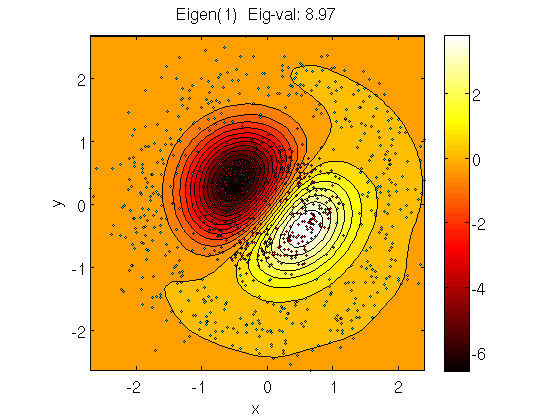
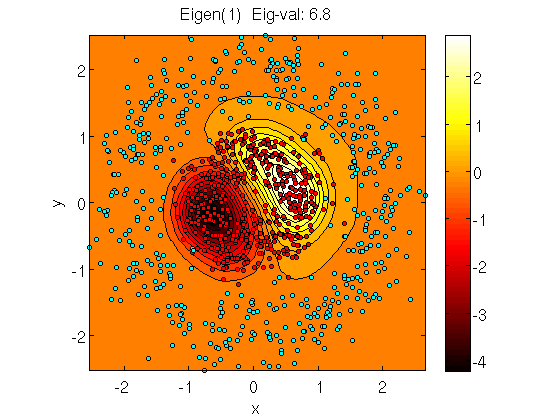
Added surface plot option to the ml_plot_isolines fnct for kernel PCA

diff --git a/functions/plot_functions/isolines_plot/ml_plot_isolines.m b/functions/plot_functions/isolines_plot/ml_plot_isolines.m
@@ -42,12 +42,13 @@ labels              = [];
 b_plot_data         = true;
 b_plot_colorbar     = false;
 b_plot_eigenvalues  = false;
+b_plot_surf         = false;
 
 if isfield(plot_options,'labels'),              labels              = plot_options.labels;              end
 if isfield(plot_options,'b_plot_data'),         b_plot_data         = plot_options.b_plot_data;         end
 if isfield(plot_options,'b_plot_colorbar'),     b_plot_colorbar     = plot_options.b_plot_colorbar;     end
 if isfield(plot_options,'b_plot_eigenvalues'),  b_plot_eigenvalues  = plot_options.b_plot_eigenvalues;  end
-
+if isfield(plot_options,'b_plot_surf'),         b_plot_surf         = plot_options.b_plot_surf;  end
 
 %% Extract kernel options
 
@@ -56,7 +57,7 @@ kernel      = kernel_data.kernel;
 kpar        = kernel_data.kpar;
 %invsqrtL    = kernel_data.invsqrtL;
 
-%% Get Projection maps
+%% Get Projectio5 maps
 
 nbSamples   = 50;
 % Get the limits of dim1 and dim2
@@ -86,17 +87,22 @@ handle_eig = [];
 
 num_contour = 20;
 
-handle_iso  = figure;
+handle_iso  = figure('Color',[1 1 1]);
 if num_eigs == 1
     
-    contour(Xs,Ys,reshape(proj_v{1},size(Xs)),num_contour);
+    if b_plot_surf == true
+        surfc(Xs,Ys,reshape(proj_v{1},size(Xs)));
+    else
+        contourf(Xs,Ys,reshape(proj_v{1},size(Xs)), num_contour); 
+    end
+
     
     if b_plot_data == true
         hold on;
         if isempty(labels)
-            scatter(kernel_data.xtrain(:,xtrain_dim(1)),kernel_data.xtrain(:,xtrain_dim(2)),10,'filled','MarkerFaceColor',[1 0 0],'MarkerEdgeColor',[0 0 0]);
+            scatter(kernel_data.xtrain(:,xtrain_dim(1)),kernel_data.xtrain(:,xtrain_dim(2)),20,'filled','MarkerFaceColor',[1 0 0],'MarkerEdgeColor',[0 0 0]);
         else
-           hs = scatter(kernel_data.xtrain(:,xtrain_dim(1)),kernel_data.xtrain(:,xtrain_dim(2)),10,colors(labels,:),'filled','MarkerEdgeColor',[0 0 0]);
+           hs = scatter(kernel_data.xtrain(:,xtrain_dim(1)),kernel_data.xtrain(:,xtrain_dim(2)),20,colors(labels,:),'filled','MarkerEdgeColor',[0 0 0]);
         end            
     end
     
@@ -107,7 +113,9 @@ if num_eigs == 1
     set(gca,'FontSize',14);
     xlabel('x','FontSize',14);
     ylabel('y','FontSize',14);
+    colormap hot
     colorbar;
+    axis square
     
 else
     
@@ -127,22 +135,30 @@ else
     for p=1:num_eigs
        subaxis(m,n,p,'Spacing', 0.05, 'Padding', 0, 'Margin', 0.05);
        
-       contour(Xs,Ys,reshape(proj_v{p},size(Xs)),num_contour);
+        if b_plot_surf == true
+            surfc(Xs,Ys,reshape(proj_v{p},size(Xs)));
+            
+        else
+            contourf(Xs,Ys,reshape(proj_v{p},size(Xs)), num_contour); 
+        end
+    
         if b_plot_data == true
             hold on;
             if isempty(labels)
-                scatter(kernel_data.xtrain(:,xtrain_dim(1)),kernel_data.xtrain(:,xtrain_dim(2)),10,'filled','MarkerFaceColor',[1 0 0],'MarkerEdgeColor',[0 0 0]);
+                scatter(kernel_data.xtrain(:,xtrain_dim(1)),kernel_data.xtrain(:,xtrain_dim(2)),20,'filled','MarkerFaceColor',[1 0 0],'MarkerEdgeColor',[0 0 0]);
             else
-                scatter(kernel_data.xtrain(:,xtrain_dim(1)),kernel_data.xtrain(:,xtrain_dim(2)),10,colors(labels,:),'filled','MarkerEdgeColor',[0 0 0]);
+                scatter(kernel_data.xtrain(:,xtrain_dim(1)),kernel_data.xtrain(:,xtrain_dim(2)),20,colors(labels,:),'filled','MarkerEdgeColor',[0 0 0]);
             end            
         end
+        
        eig_val = kernel_data.eigen_values(eigen_idx(p));
        eig_val = round(eig_val * 100) / 100;
 
        title(['Eigen(' num2str(eigen_idx(p)) ') Eig-val: ' num2str(eig_val) ],'FontSize',8);
        xlabel('x','FontSize',8);
        ylabel('y','FontSize',8); 
-       set(gca,'FontSize',8);
+       set(gca,'FontSize',8);       
+       colormap hot
        if b_plot_colorbar == true, colorbar; end
        axis square;
 

diff --git a/tutorials-spring2016/TP2_kPCA_Clustering/TP2_kPCA_circle.m b/tutorials-spring2016/TP2_kPCA_Clustering/TP2_kPCA_circle.m
@@ -35,7 +35,7 @@ optionts = [];
 options.method_name       = 'KPCA';  
 options.nbDimensions      = 20;      % these are the number of eigenvectors to keep.
 options.kernel            = 'gauss'; % the type of Kernel to use.
-options.kpar              = 0.4;     % this is the variance of the Gaussian function
+options.kpar              = 0.25;     % this is the variance of the Gaussian function
 
 [proj_X, mapping]         = ml_projection(X,options);
 
@@ -66,6 +66,7 @@ iso_plot_options.eigen_idx          = [1];            % Eigenvectors to use.
 iso_plot_options.b_plot_data        = true;           % If you want to plot the training data on top of the isolines 
 iso_plot_options.labels             = labels;         % If you set this field the plotted data will be colored according to class label
 iso_plot_options.b_plot_colorbar    = false;          % If you want to plot the colorbar or not.
+iso_plot_options.b_plot_surf        = false;          % If you want to plot the isolines as a surface or not
 iso_plot_options.b_plot_eigenvalues = true;
 
 kernel_data                         = [];
@@ -75,8 +76,8 @@ kernel_data.kpar                    = [mapping.param1,mapping.param2];
 kernel_data.xtrain                  = mapping.X;
 kernel_data.eigen_values            = sqrt(mapping.L);
 
-if exist('h_isoline','var') && isvalid(h_isoline), delete(h_isoline);end
-if exist('h_eig','var')     && isvalid(h_eig),     delete(h_eig);    end
+% if exist('h_isoline','var') && isvalid(h_isoline), delete(h_isoline);end
+% if exist('h_eig','var')     && isvalid(h_eig),     delete(h_eig);    end
 [h_isoline,h_eig] = ml_plot_isolines(iso_plot_options,kernel_data);
 
 %
